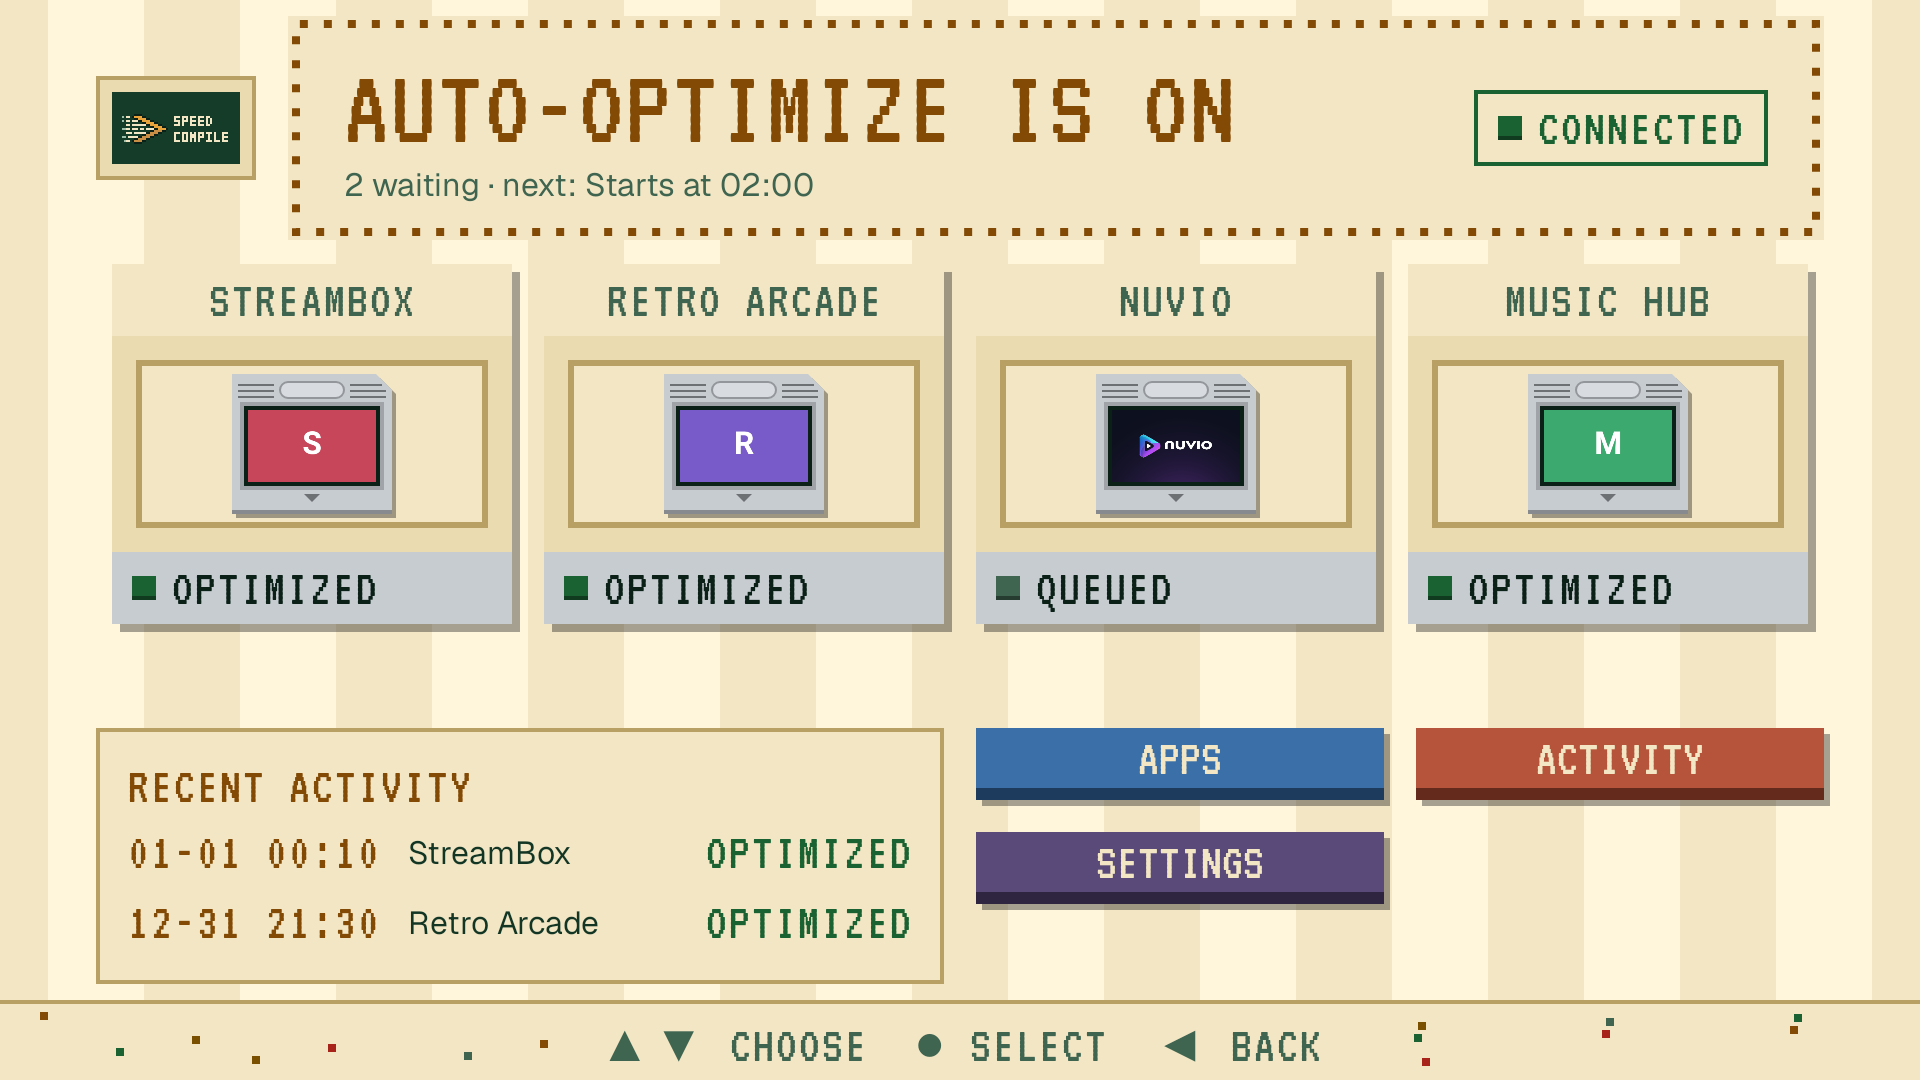
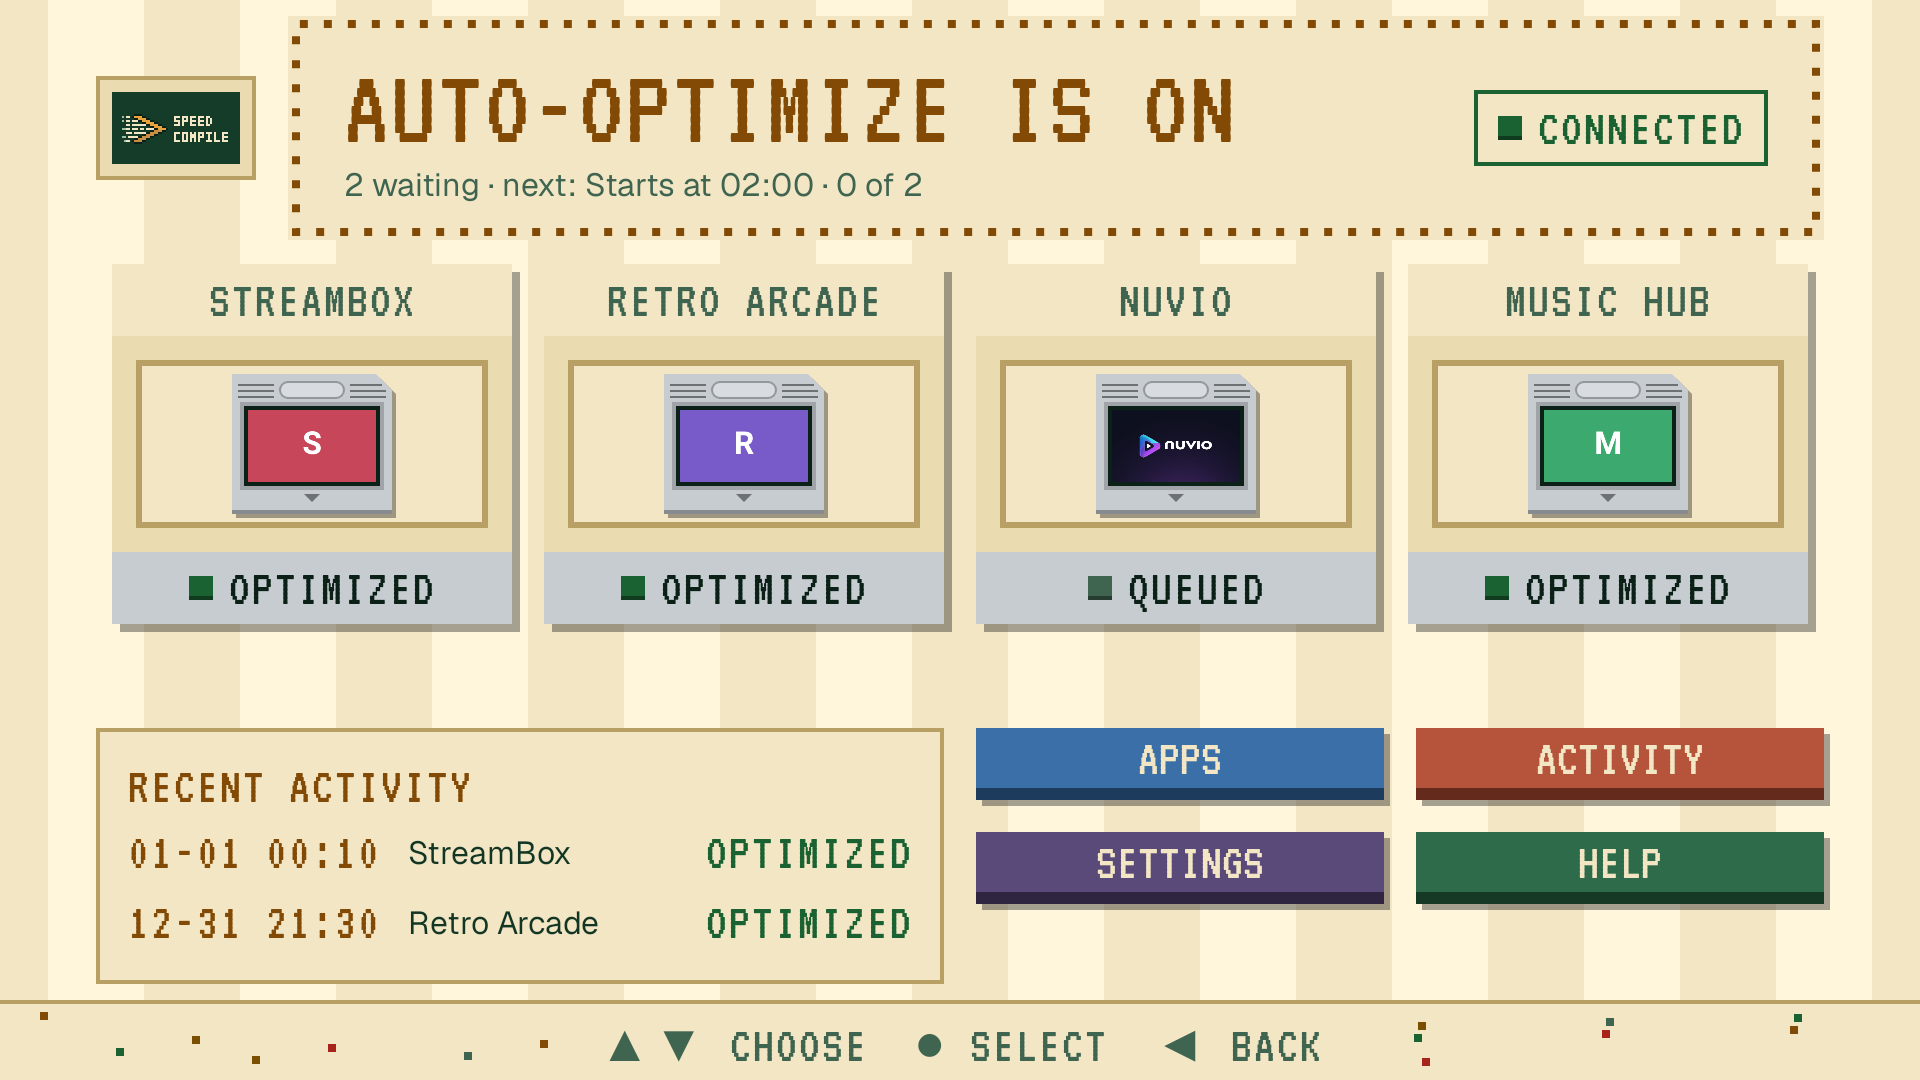
Owner UI feedback: scroll bars, 4th Home button, centered status, cabinet corner
- Pixel scroll bar on every vertical scroll container (Modifier.scrollbar), shown only when content overflows
- Home gets a 4th button, Help
- Card status lamp and word are centered (Home tiles, App detail)
- Setup app picker rows show the cartridge banner art
- "Hold select on an app for more options"; Working ETA back to "Usually about N min"
- Arcade cabinet black outline (sprites) and gold focus frame follow the slanted top-right corner
- README shots re-recorded

diff --git a/app/src/main/kotlin/dev/speedcompiler/tv/theme/Widgets.kt b/app/src/main/kotlin/dev/speedcompiler/tv/theme/Widgets.kt
@@ -42,6 +42,10 @@ import androidx.compose.ui.draw.drawBehind
 import androidx.compose.ui.draw.clip
 import androidx.compose.ui.geometry.CornerRadius
 import androidx.compose.ui.geometry.Offset
+import androidx.compose.ui.composed
+import androidx.compose.foundation.ScrollState
+import androidx.compose.foundation.gestures.ScrollableState
+import androidx.compose.foundation.lazy.LazyListState
 import androidx.compose.ui.geometry.Size
 import androidx.compose.ui.graphics.Brush
 import androidx.compose.ui.graphics.Color
@@ -230,4 +234,42 @@ fun Button(
     val cs = MaterialTheme.colorScheme
     if (secondary) ArcadeButton(onClick, modifier, enabled, cs.primaryContainer, cs.onPrimaryContainer, content = content)
     else ArcadeButton(onClick, modifier, enabled, content = content)
+}
+
+private val BarWidth = 6.dp
+private val BarGap = 4.dp
+
+/** Pixel scroll bar at the right edge, shown only while there is more to scroll. Put it before verticalScroll; it reserves its own width so rows never sit under it. */
+fun Modifier.scrollbar(state: ScrollState) = scrollbar(state) {
+    scrollThumb(state.viewportSize.toFloat(), (state.maxValue + state.viewportSize).toFloat(), state.value.toFloat())
+}
+
+fun Modifier.scrollbar(state: LazyListState) = scrollbar(state) {
+    val info = state.layoutInfo
+    val seen = info.visibleItemsInfo
+    if (seen.isEmpty()) null else {
+        // Item sizes vary, so the total is estimated from the rows on screen.
+        val avg = (seen.last().offset + seen.last().size - seen.first().offset).toFloat() / seen.size
+        scrollThumb((info.viewportEndOffset - info.viewportStartOffset).toFloat(), avg * info.totalItemsCount, avg * state.firstVisibleItemIndex + state.firstVisibleItemScrollOffset)
+    }
+}
+
+/** (thumb length, thumb start) as fractions of the track, or null when everything fits. */
+internal fun scrollThumb(viewport: Float, total: Float, offset: Float): Pair<Float, Float>? =
+    if (viewport <= 0f || total <= viewport) null
+    else (viewport / total).coerceAtLeast(0.05f).let { len -> len to (offset / total).coerceIn(0f, 1f - len) }
+
+private fun Modifier.scrollbar(state: ScrollableState, thumb: () -> Pair<Float, Float>?) = composed {
+    val c = LocalSpeedColors.current
+    drawWithContent {
+        drawContent()
+        if (!state.canScrollForward && !state.canScrollBackward) return@drawWithContent
+        val (len, start) = thumb() ?: return@drawWithContent
+        val w = BarWidth.toPx()
+        val gap = BarGap.toPx()
+        val x = size.width - gap - w
+        val h = size.height - 2 * gap
+        drawRect(c.hairline, Offset(x, gap), Size(w, h))
+        drawRect(c.accent, Offset(x, gap + start * h), Size(w, len * h))
+    }.padding(end = BarGap * 2 + BarWidth)
 }

diff --git a/app/src/main/kotlin/dev/speedcompiler/tv/ui/setup/SetupScreen.kt b/app/src/main/kotlin/dev/speedcompiler/tv/ui/setup/SetupScreen.kt
@@ -1,5 +1,7 @@
 package dev.speedcompiler.tv.ui.setup
 
+import dev.speedcompiler.tv.theme.scrollbar
+import androidx.compose.foundation.lazy.rememberLazyListState
 import dev.speedcompiler.tv.theme.upper
 import androidx.activity.compose.BackHandler
 import androidx.compose.foundation.Image
@@ -48,7 +50,9 @@ import androidx.tv.material3.MaterialTheme
 import androidx.tv.material3.Text
 import dev.speedcompiler.tv.R
 import dev.speedcompiler.tv.adb.ConnectionState
-import dev.speedcompiler.tv.theme.ListRow
+import dev.speedcompiler.tv.theme.SelectRow
+import dev.speedcompiler.tv.theme.Cartridge
+import dev.speedcompiler.tv.ui.apps.AppBanner
 import dev.speedcompiler.tv.theme.LocalSpeedColors
 import dev.speedcompiler.tv.theme.MonoStyle
 import dev.speedcompiler.tv.theme.QrCard
@@ -331,18 +335,21 @@ private fun AppPicker(apps: List<SetupApp>, picked: MutableList<String>, onConti
     val firstRow = remember { FocusRequester() }
     Page(6, stringResource(R.string.setup_pick_title)) {
         if (apps.isEmpty()) Body(stringResource(R.string.setup_no_apps))
-        LazyColumn(Modifier.weight(1f), verticalArrangement = Arrangement.spacedBy(Space.x1)) {
+        val list = rememberLazyListState()
+        LazyColumn(Modifier.weight(1f).scrollbar(list), state = list, verticalArrangement = Arrangement.spacedBy(Space.x1)) {
             items(apps.size, key = { apps[it].packageName }) { i ->
                 val app = apps[i]
                 val on = app.packageName in picked
                 if (i == 0) LaunchedEffect(Unit) { firstRow.requestFocus() }
-                ListRow(
+                SelectRow(
                     app.label,
                     (if (i == 0) Modifier.focusRequester(firstRow) else Modifier)
                         .semantics { role = Role.Checkbox; toggleableState = ToggleableState(on) },
                     subtitle = app.packageName,
                     onClick = { if (on) picked.remove(app.packageName) else picked.add(app.packageName) },
-                ) { if (on) StatusPill(stringResource(R.string.setup_selected), Tone.Ok) else StatusPill(stringResource(R.string.setup_not_selected), Tone.Neutral) }
+                    leading = { Cartridge { AppBanner(app, Modifier.size(width = 72.dp, height = 40.dp)) } },
+                    trailing = { if (on) StatusPill(stringResource(R.string.setup_selected), Tone.Ok) else StatusPill(stringResource(R.string.setup_not_selected), Tone.Neutral) },
+                )
             }
         }
         Button(onClick = onContinue, enabled = picked.isNotEmpty()) { Text(pluralStringResource(R.plurals.setup_continue, picked.size, picked.size).upper()) }

diff --git a/app/src/main/kotlin/dev/speedcompiler/tv/ui/settings/SettingsScreen.kt b/app/src/main/kotlin/dev/speedcompiler/tv/ui/settings/SettingsScreen.kt
@@ -1,5 +1,6 @@
 package dev.speedcompiler.tv.ui.settings
 
+import dev.speedcompiler.tv.theme.scrollbar
 import androidx.compose.ui.res.pluralStringResource
 import androidx.compose.foundation.background
 import androidx.compose.foundation.border
@@ -108,12 +109,13 @@ fun SettingsScreen(go: (String) -> Unit, back: () -> Unit, deps: SettingsDeps = 
         ThemeChoice.Light -> stringResource(R.string.settings_theme_light)
         ThemeChoice.Dark -> stringResource(R.string.settings_theme_dark)
     }
+    val scroll = rememberScrollState()
     RoomBackdrop {
         Column(Modifier.padding(horizontal = 48.dp).padding(top = 16.dp, bottom = 8.dp), Arrangement.spacedBy(Space.x1)) {
             Marquee(stringResource(R.string.nav_settings), compact = true, onBack = back) { PixelText(stringResource(R.string.settings_version, deps.version), color = MaterialTheme.colorScheme.onSurfaceVariant) }
             Column(
                 Modifier.weight(1f).fillMaxWidth().background(MaterialTheme.colorScheme.background).border(2.dp, c.hairline)
-                    .verticalScroll(rememberScrollState()).padding(horizontal = Space.x2, vertical = Space.x1),
+                    .scrollbar(scroll).verticalScroll(scroll).padding(horizontal = Space.x2, vertical = Space.x1),
             ) {
                 Heading(stringResource(R.string.settings_heading_when))
                 SwitchRow(

diff --git a/app/src/main/kotlin/dev/speedcompiler/tv/ui/setup/SetupEnv.kt b/app/src/main/kotlin/dev/speedcompiler/tv/ui/setup/SetupEnv.kt
@@ -15,6 +15,7 @@ import dev.speedcompiler.tv.adb.ConnectionMonitor
 import dev.speedcompiler.tv.adb.AdbFailure
 import dev.speedcompiler.tv.adb.ConnectionState
 import dev.speedcompiler.tv.adb.KeeperStatus
+import dev.speedcompiler.tv.ui.apps.AppInfo
 import dev.speedcompiler.tv.ui.apps.loadUserApps
 import dev.speedcompiler.tv.watch.PairingService
 import kotlinx.coroutines.Dispatchers
@@ -24,7 +25,7 @@ import kotlinx.coroutines.flow.map
 import kotlinx.coroutines.launch
 import kotlinx.coroutines.withContext
 
-data class SetupApp(val packageName: String, val label: String)
+typealias SetupApp = AppInfo
 
 /** Everything the setup screens need from Android that a JVM test cannot do: Settings reads and launches. */
 interface SetupEnv {
@@ -86,7 +87,7 @@ class AndroidSetupEnv(private val context: Context, private val monitor: Connect
         val packages = withContext(Dispatchers.IO) {
             context.packageManager.queryIntentActivities(launch, 0).map { it.activityInfo.packageName }.distinct()
         }
-        return loadUserApps(context, packages).sortedByDescending { it.updatedAt }.map { SetupApp(it.packageName, it.label) }
+        return loadUserApps(context, packages).sortedByDescending { it.updatedAt }
     }
 }
 

diff --git a/app/src/main/kotlin/dev/speedcompiler/tv/ui/help/DiagnosticsScreen.kt b/app/src/main/kotlin/dev/speedcompiler/tv/ui/help/DiagnosticsScreen.kt
@@ -1,5 +1,6 @@
 package dev.speedcompiler.tv.ui.help
 
+import dev.speedcompiler.tv.theme.scrollbar
 import androidx.compose.ui.platform.LocalResources
 import dev.speedcompiler.tv.theme.upper
 import android.content.Context
@@ -95,13 +96,14 @@ fun DiagnosticsScreen(onBack: () -> Unit) {
     LaunchedEffect(Unit) { runCatching { share.requestFocus() } }
     val version = remember { context.packageManager.getPackageInfo(context.packageName, 0).versionName.orEmpty() }
 
+    val scroll = rememberScrollState()
     RoomBackdrop {
       Column(Modifier.padding(horizontal = 48.dp, vertical = 12.dp)) {
         Marquee(stringResource(R.string.diag_title), compact = true, onBack = onBack)
         Spacer(Modifier.height(12.dp))
         Column(
             Modifier.weight(1f).fillMaxWidth().background(MaterialTheme.colorScheme.background).border(2.dp, LocalSpeedColors.current.hairline)
-                .verticalScroll(rememberScrollState()).padding(16.dp),
+                .scrollbar(scroll).verticalScroll(scroll).padding(16.dp),
             verticalArrangement = Arrangement.spacedBy(Space.x2),
         ) {
         Row(horizontalArrangement = Arrangement.spacedBy(Space.x4)) {

diff --git a/app/src/main/kotlin/dev/speedcompiler/tv/ui/apps/AppsScreen.kt b/app/src/main/kotlin/dev/speedcompiler/tv/ui/apps/AppsScreen.kt
@@ -1,5 +1,7 @@
 package dev.speedcompiler.tv.ui.apps
 
+import dev.speedcompiler.tv.theme.scrollbar
+import androidx.compose.foundation.lazy.rememberLazyListState
 import dev.speedcompiler.tv.theme.upper
 import androidx.compose.foundation.Image
 import androidx.compose.foundation.background
@@ -287,7 +289,8 @@ fun AppsContent(
             when { loading -> stringResource(R.string.apps_loading); apps.isEmpty() -> stringResource(R.string.setup_no_apps); else -> stringResource(R.string.apps_no_match) },
             style = MaterialTheme.typography.titleMedium, color = MaterialTheme.colorScheme.onSurfaceVariant,
         )
-        LazyColumn(Modifier.weight(1f), verticalArrangement = Arrangement.spacedBy(Space.x1)) {
+        val list = rememberLazyListState()
+        LazyColumn(Modifier.weight(1f).scrollbar(list), state = list, verticalArrangement = Arrangement.spacedBy(Space.x1)) {
             items(shown, key = { it.packageName }) { app ->
                 val pill = pillFor(res, queue[app.packageName], watched[app.packageName]?.lastResult, optimizedAt[app.packageName], now, zone)
                 SelectRow(

diff --git a/app/src/main/kotlin/dev/speedcompiler/tv/ui/help/HelpScreen.kt b/app/src/main/kotlin/dev/speedcompiler/tv/ui/help/HelpScreen.kt
@@ -1,5 +1,7 @@
 package dev.speedcompiler.tv.ui.help
 
+import dev.speedcompiler.tv.theme.scrollbar
+import androidx.compose.foundation.lazy.rememberLazyListState
 import dev.speedcompiler.tv.theme.upper
 import androidx.activity.compose.BackHandler
 import androidx.compose.foundation.layout.Arrangement
@@ -64,8 +66,10 @@ fun HelpContent(go: (String) -> Unit, onBack: () -> Unit = {}) {
       Column(Modifier.padding(horizontal = 48.dp, vertical = 12.dp)) {
         Marquee(stringResource(R.string.help_title), compact = true, onBack = onBack)
         Spacer(Modifier.height(12.dp))
+        val list = rememberLazyListState()
         LazyColumn(
-            Modifier.weight(1f).fillMaxWidth().background(MaterialTheme.colorScheme.background).border(2.dp, LocalSpeedColors.current.hairline),
+            Modifier.weight(1f).fillMaxWidth().background(MaterialTheme.colorScheme.background).border(2.dp, LocalSpeedColors.current.hairline).scrollbar(list),
+            state = list,
             contentPadding = PaddingValues(16.dp),
             verticalArrangement = Arrangement.spacedBy(Space.x1),
         ) {

diff --git a/app/src/main/kotlin/dev/speedcompiler/tv/ui/working/WorkingScreen.kt b/app/src/main/kotlin/dev/speedcompiler/tv/ui/working/WorkingScreen.kt
@@ -1,5 +1,6 @@
 package dev.speedcompiler.tv.ui.working
 
+import dev.speedcompiler.tv.theme.scrollbar
 import androidx.compose.ui.res.pluralStringResource
 import androidx.compose.foundation.Image
 import androidx.compose.foundation.background
@@ -222,9 +223,10 @@ fun WorkingContent(s: WorkingState, back: () -> Unit, saveBest: (String, Int) ->
         }
         return
     }
+    val scroll = rememberScrollState()
     RoomBackdrop {
         Column(
-            Modifier.fillMaxSize().verticalScroll(rememberScrollState()).padding(start = 48.dp, top = 6.dp, end = 48.dp), // header 104 (grows for a 2-line status) + gap 6 + room 380 + top 6 fits the 500 dp above the floor bar
+            Modifier.fillMaxSize().scrollbar(scroll).verticalScroll(scroll).padding(start = 48.dp, top = 6.dp, end = 34.dp), // end 34 + the 14 dp scroll bar keeps the 864 dp picker whole; header 104 (grows for a 2-line status) + gap 6 + room 380 + top 6 fits the 500 dp above the floor bar
             verticalArrangement = Arrangement.spacedBy(6.dp),
         ) {
             WorkingHeader(s, back, done, first)

diff --git a/app/src/main/kotlin/dev/speedcompiler/tv/ui/home/ActivityScreen.kt b/app/src/main/kotlin/dev/speedcompiler/tv/ui/home/ActivityScreen.kt
@@ -1,5 +1,7 @@
 package dev.speedcompiler.tv.ui.home
 
+import dev.speedcompiler.tv.theme.scrollbar
+import androidx.compose.foundation.lazy.rememberLazyListState
 import dev.speedcompiler.tv.theme.upper
 import androidx.activity.compose.BackHandler
 import androidx.compose.foundation.Image
@@ -121,8 +123,10 @@ fun ActivityContent(
       Column(Modifier.padding(horizontal = 48.dp).padding(top = 12.dp, bottom = 12.dp)) {
         Marquee(stringResource(R.string.nav_activity), compact = true, onBack = onBack)
         Spacer(Modifier.height(12.dp))
+        val list = rememberLazyListState()
         LazyColumn(
-            Modifier.weight(1f).fillMaxWidth().background(cs.background).border(2.dp, sc.hairline),
+            Modifier.weight(1f).fillMaxWidth().background(cs.background).border(2.dp, sc.hairline).scrollbar(list),
+            state = list,
             contentPadding = PaddingValues(16.dp),
             verticalArrangement = Arrangement.spacedBy(Space.x1),
         ) {

diff --git a/app/src/main/kotlin/dev/speedcompiler/tv/ui/working/ArcadePicker.kt b/app/src/main/kotlin/dev/speedcompiler/tv/ui/working/ArcadePicker.kt
@@ -123,8 +123,9 @@ fun ArcadePicker(
             val i = focused
             if (i < 0) return@Canvas
             val x = CAB_X[i]
-            art(GameColors.gold, x - 3, CAB_Y - 3, 108, 2, u); art(GameColors.gold, x - 3, CAB_Y + 151, 108, 2, u)
-            art(GameColors.gold, x - 3, CAB_Y - 3, 2, 156, u); art(GameColors.gold, x + 103, CAB_Y - 3, 2, 156, u)
+            art(GameColors.gold, x - 3, CAB_Y - 3, 100, 2, u); art(GameColors.gold, x - 3, CAB_Y + 151, 108, 2, u)
+            art(GameColors.gold, x - 3, CAB_Y - 3, 2, 156, u); art(GameColors.gold, x + 103, CAB_Y + 3, 2, 150, u)
+            for (k in 0..6) art(GameColors.gold, x + 97 + k, CAB_Y - 3 + k, 2, 2, u) // follows the cabinet's slanted top-right corner
             if (tick / 3 % 2 == 0) artText(pressSelect, x + 48 - (12 * 4 - 1) / 2, CAB_Y + 102, GameColors.yellow, u)
         }
     }

diff --git a/app/src/test/kotlin/dev/speedcompiler/tv/theme/ScrollbarTest.kt b/app/src/test/kotlin/dev/speedcompiler/tv/theme/ScrollbarTest.kt
@@ -1,0 +1,23 @@
+package dev.speedcompiler.tv.theme
+
+import org.junit.Assert.assertEquals
+import org.junit.Assert.assertNull
+import org.junit.Test
+
+class ScrollbarTest {
+    @Test fun noThumbWhenEverythingFits() {
+        assertNull(scrollThumb(500f, 400f, 0f))
+        assertNull(scrollThumb(500f, 500f, 0f))
+        assertNull(scrollThumb(0f, 900f, 0f)) // not laid out yet
+    }
+
+    @Test fun thumbSizeAndPositionFollowTheScroll() {
+        assertEquals(0.25f to 0f, scrollThumb(100f, 400f, 0f))
+        assertEquals(0.25f to 0.75f, scrollThumb(100f, 400f, 300f)) // at the end
+        assertEquals(0.25f to 0.75f, scrollThumb(100f, 400f, 900f)) // overshoot from the estimate stays on the track
+    }
+
+    @Test fun longListsKeepAVisibleThumb() {
+        assertEquals(0.05f, scrollThumb(100f, 100_000f, 0f)!!.first)
+    }
+}

diff --git a/app/src/test/kotlin/dev/speedcompiler/tv/ReadmeScreenshotsTest.kt b/app/src/test/kotlin/dev/speedcompiler/tv/ReadmeScreenshotsTest.kt
@@ -258,7 +258,8 @@ class ReadmeScreenshotsTest : ComposeTestBase() {
         SettingsScreen({}, {}, SettingsDeps(v, { f -> v.value = f(v.value) }, flowOf(KeeperStatus.Connected), "1.0.0"))
     }
 
-    private val setupApps = listOf(SetupApp(NUVIO, "Nuvio"), SetupApp("com.example.streambox", "StreamBox"), SetupApp("com.example.retroarcade", "Retro Arcade"), SetupApp("com.example.musichub", "Music Hub"))
+    private val setupApps = listOf(NUVIO, "com.example.streambox", "com.example.retroarcade", "com.example.musichub")
+        .map { pkg -> demo.first { it.pkg == pkg }.let { d -> SetupApp(d.pkg, d.label, banner = { banner(d) }) } }
 
     /** Setup with Developer options, Wireless debugging and the connection already done, so Start goes to the app picker. */
     private fun setupDeps(ready: Boolean, url: String? = null) = SetupDeps(
